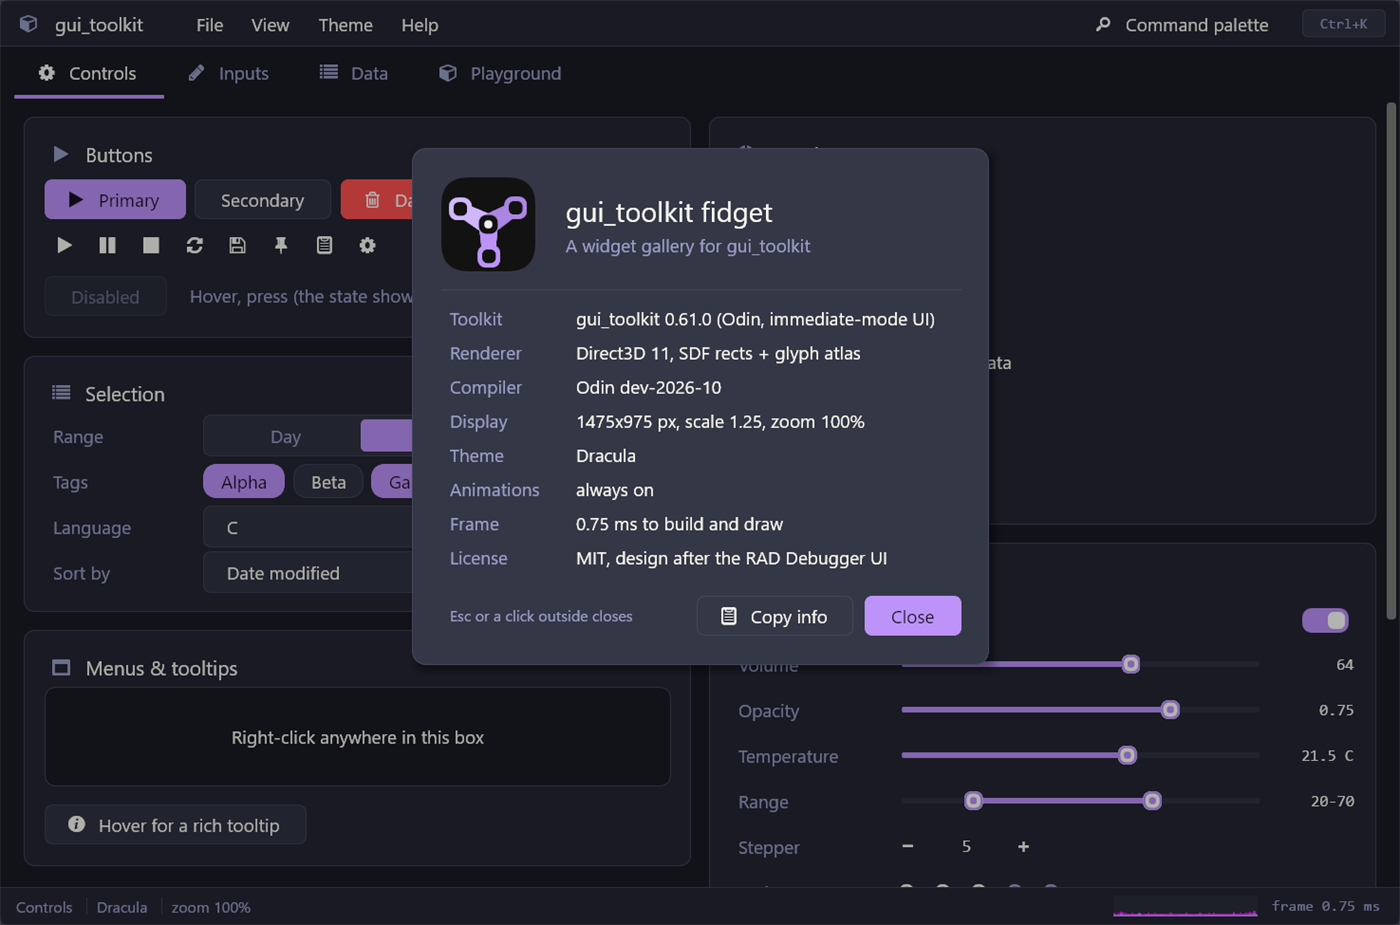
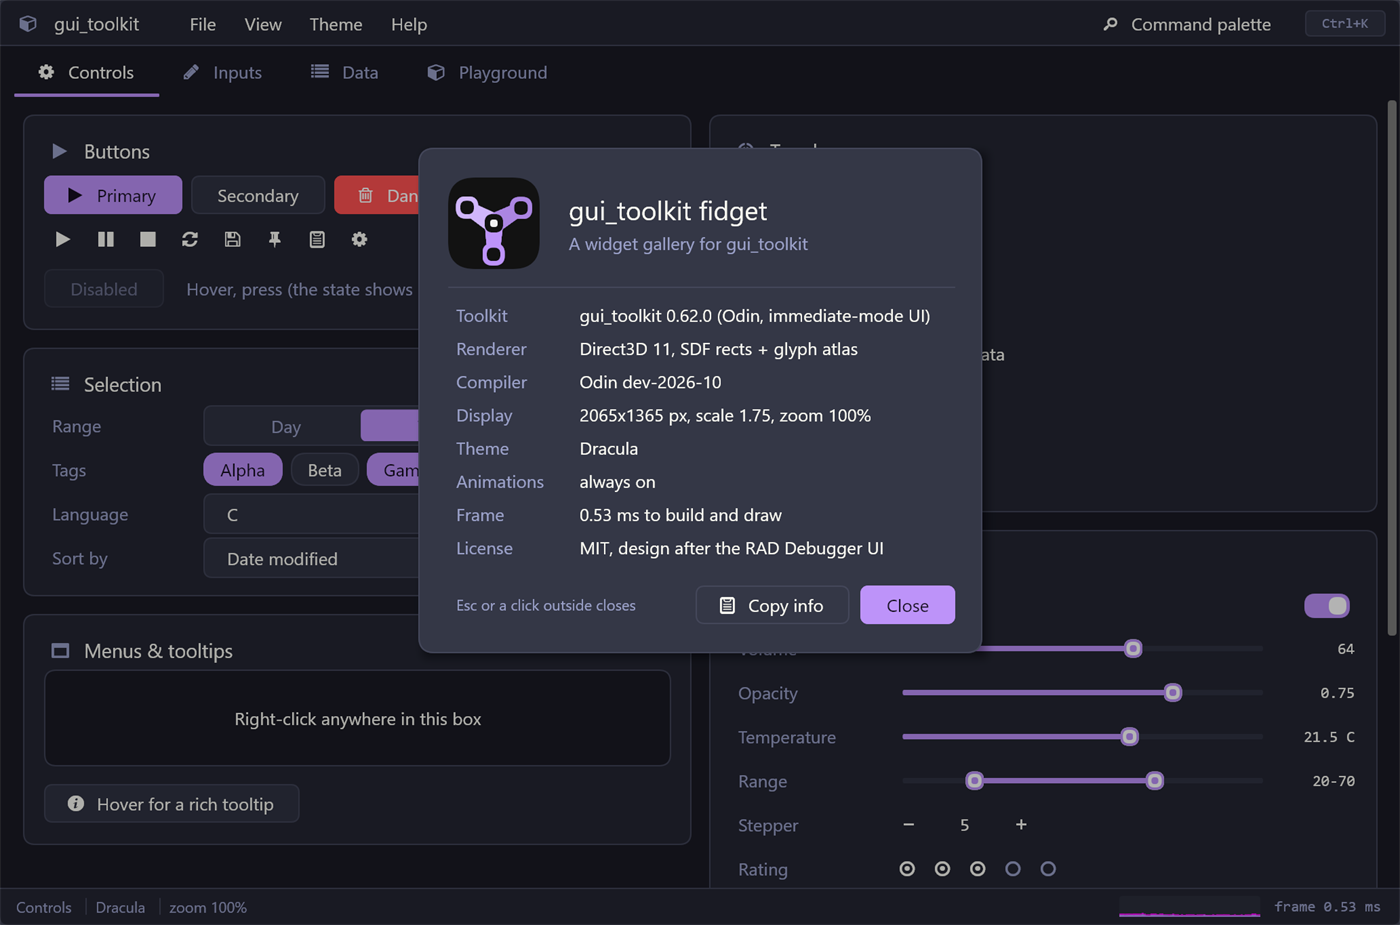
0.62.0: Tests in pure Odin, a headless session, Linux color emoji and cursors

diff --git a/CHANGELOG.md b/CHANGELOG.md
@@ -5,6 +5,24 @@ project follows [semantic versioning](https://semver.org); while the version is 
 is also available in code as `ui.VERSION`. What is not released yet is in `changelog.d/`, not under "Unreleased": two branches never
 conflict on this file.
 
+## [0.62.0] - 2026-11-02
+
+### Added
+- **`devtools.start_local`, `devtools.Local_Client`**: the protocol with no socket, for a program or a test that drives itself; `Toolkit.state` says how many pictures are being encoded.
+- **`ui.set_clock`**: a state's time goes by a clock its owner moves: every delay and wake of the interface follows it, `wake_in_ms` and `wake_due` included. `Build_Params.time_ms` stays for one build.
+- **`testkit/session`**: an `@(test)` procedure makes an application with no window of the system on the offscreen renderer, sends input through `platform.inject_event`, runs frames, reads widgets and real pixels, with barriers on a state (`wait_until`, `wait_idle`, `wait_box`) and a clock of its own (`advance`); `attach` drives an application that makes its own frames.
+
+### Changed
+- **`tools/changelog`** is an Odin program, tested by `tests/changelog`, in place of `tools/changelog.ps1` and `tools/changelog_test.ps1`; `-Migrate` (for an "## Unreleased" this repository does not have) is gone.
+- **The tests are Odin**: `odin run tools/run_tests` runs every package on Windows and Linux (on Windows on a desktop of its own, and nothing takes the focus of whoever is at the machine), in place of `tools/test_windowless.ps1`, `tools/test_backends.ps1` and the test part of `tools/linux_ci.sh`; ten packages that no CI ran now do (`window`, `cursors`, `tray`, `dialogs`, `clock`, `size_move`, `i18n`, `planes`, `video`, `textures`). `tests/e2e/run.mjs` is `tests/examples/whatsnew_test.odin`, in the test's process. Guide: `docs/testing.md`.
+- **`tests/examples`**: `examples/fidget` and `examples/todo` are tested in the test's process with no window and no input of the machine (`tools/keyboard_test.ps1`, `tools/fidget_test.ps1`, `tools/ui_test.ps1` are gone, so is fidget's `--state_title`); the examples have `open` and `close`, and a settings folder of their own for a test. Esc in fidget's command palette closes it, as its foot says, instead of only leaving its field.
+- **Offscreen windows have a machine of their own**: `platform.virtual_screen_set` gives the screen `monitor_size` and `display_info` answer for them (no more `{0, 0}`), `platform.set_offscreen_active` their activation, and their clipboard is the process's store on Windows as on Linux: a headless program no longer reads or writes the clipboard of the person at the machine.
+
+### Fixed
+- **The caret of `line_edit` and `text_edit` wakes the loop at its flips only**: the wake came at every half phase (265 ms), which drew each picture of the caret twice.
+- **The plain text clipboard of an offscreen window on Linux**: `get_clipboard` gave nothing and `set_clipboard` did nothing, while `clipboard_set` kept to the process's store: a headless program could not copy and paste its own text.
+- **One clock for the interface**: a scroll bar's reveal (`scrollbar_reveal`) and the merging of typing into one undo step in a line edit read the system's clock whatever `Build_Params.time_ms` said; a replay or a test with its own clock got other results.
+
 ## [0.61.0] - 2026-11-01
 
 ### Added
@@ -1402,6 +1420,7 @@ First release.
 - `build.bat`, embedded exe icons, scripted interaction tests (`tools/fidget_test.ps1`, `tools/ui_test.ps1`),
   screenshot generator (`tools/screenshots.ps1`), icon generator (`tools/make_icon.ps1`).
 
+[0.62.0]: https://github.com/sachahjkl/gui_toolkit/releases/tag/v0.62.0
 [0.61.0]: https://github.com/sachahjkl/gui_toolkit/releases/tag/v0.61.0
 [0.60.2]: https://github.com/sachahjkl/gui_toolkit/releases/tag/v0.60.2
 [0.60.1]: https://github.com/sachahjkl/gui_toolkit/releases/tag/v0.60.1

diff --git a/README.md b/README.md
@@ -4,7 +4,7 @@
 
 <p align="center"><b>A fast, native, immediate-mode GUI toolkit.</b></p>
 
-<p align="center"><a href="CHANGELOG.md"><img src="https://img.shields.io/badge/version-0.61.0-1d57ba" alt="version 0.61.0"></a>
+<p align="center"><a href="CHANGELOG.md"><img src="https://img.shields.io/badge/version-0.62.0-1d57ba" alt="version 0.62.0"></a>
 <a href="https://sachahjkl.github.io/gui_toolkit/"><img src="https://img.shields.io/badge/site-github.io-56b6c2" alt="site"></a></p>
 
 A native GUI toolkit in [Odin](https://odin-lang.org). You describe the interface in code on every frame; it keeps the state between
